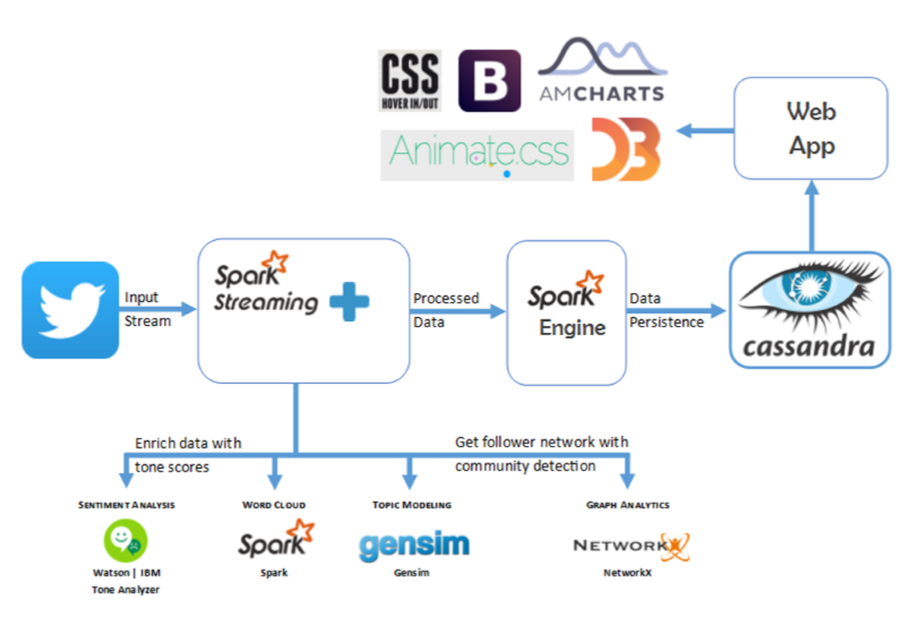
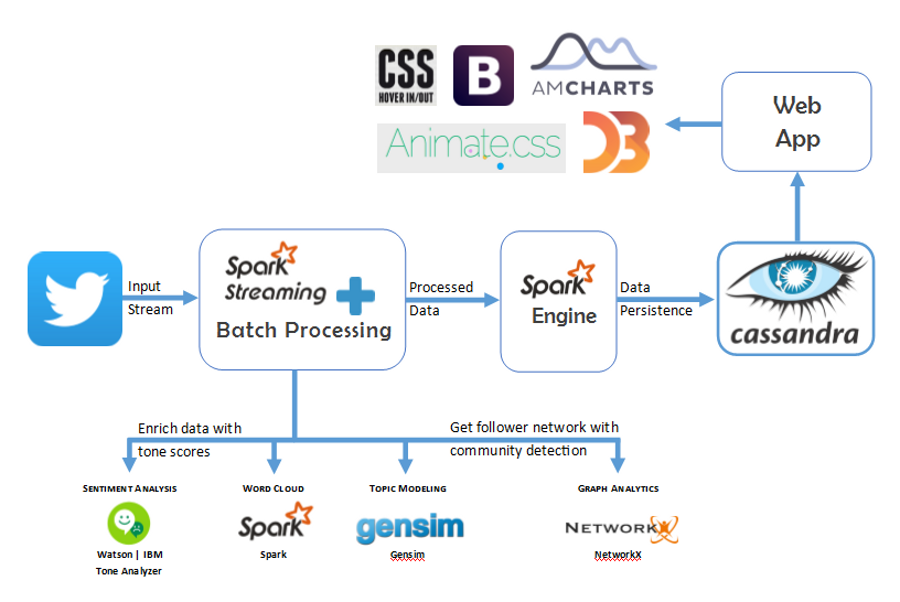
updated some of README -- still in progress; also corrected pipeline which was missing 'batch processing' under Spark streaming

diff --git a/WebApp/flask-app/templates/index.html b/WebApp/flask-app/templates/index.html
@@ -334,7 +334,7 @@
                 <div class="col-lg-4" style="width:500px">
                     <h4 style="font-size:26px;">Data Processing</h4>
                     <ul style="font-size:20px;">
-                        <li>Tweepy API to pull Twitter data (batch processing)</li>
+                        <li>Tweepy API to pull Twitter data (realtime and batch processing)</li>
                         <li>Cassandra to ensure data persistence</li>
                         <li>Spark Streaming to generate realtime data</li>
                         <li>list item 1 Aenean commodo ligula eget dolor.</li>

diff --git a/WebApp/README.md b/WebApp/README.md
@@ -1,26 +1,79 @@
 # [Visit Our App](http://big-neuron.github.io) - [Big Neuron](http://big-neuron.github.io)
 
-[Big Neuron](http://big-neuron.github.io) is an interactive web app that allows the user to visualize big data collected and analyzed from Twitter based on the user's specified keyword.
 
 
-## The Project
+## Big-Neuron
+### Project Objective:
 
-Our big data project collects, processes and analyzes Twitter data to display the number of Tweets about a particular topic/keyword and the sentiment toward said topic/keyword. 
-* highlight 1
-* highlight 2
-* highlight 3
- 
-REPLACE THIS TEXT WITH IMAGE OF PIPELINE.
+[Electionitics](http://electionitics.press) is an interactive web application that allows the user to visualize Twitter Big Data in an easy to understand and appealing manner.  The data visualized is specifically focused on the 2016 presidential race.  Electionitics shows the user what the nation feels about each candidate through Twitter and Tweet-level sentiment analysis, provides visualizations for each candidate's follower network, and Twitter data topic modeling per candidate.
 
-
-## The Team
+### Team Members:
++ Kahini Wadhawan
+* https://www.linkedin.com/in/kahiniwadhawan
++ Tanvi Parikh
+* https://www.linkedin.com/in/tanviparikh91
++ Jessica Lynch
+* https://www.linkedin.com/in/jessicalynchcsci
++ Piyush Patel
+* https://www.linkedin.com/in/piyushpatel90
++ Michael Muehlbradt
 
 Big Neuron was created by and is maintained by **Tanvi Parikh** and **Jessica Lynch** along with their teammates on backend and systems development: **Piyush Sudip Patel**, **Kahini Wadhawan** and **Michael D. Muehlbradt**.
 
-* https://www.linkedin.com/in/tanviparikh91
-* https://www.linkedin.com/in/jessicalynchcsci
-* https://www.linkedin.com/in/kahiniwadhawan
-* https://www.linkedin.com/in/piyushpatel90
+### Course:
+Big Data| Spring 2016 | University of Colorado Boulder | Professor: Gregory Greenstreet
+
+###Project Tools:
++ Data Source: Twitter Streaming Api
++ Analytics tool: IBM Tone Analyzer, Gensim for Topic Modelling, NetworkX for Graph Analytics
++ Web Framework: Flask
++ Database: Mongo DB and Apache Cassandra
++ Cloud Computing Service: AWS
++ Data Processing: Apache Spark with Kafka
+
+
+## Legacy
+##### analytics/  
+> sentimentAnalysis/ 
+
+> topics/
+
+> networkAnalysis/
+
+##### visualizations/  
+> wordcloud/  
+
+> d3-barchart/
+ - simple
+ - interactive legend
+
+> pie-chart
+ - 3D pie with animation
+ - donut chart with interactive legend
+
+> US Map
+
+> D3 Zoomable Pack Layout for Topic Modelling 
+
+> D3 Force directed graph for Follower Network
+
+##### preprocessing/  
+##### spark/  
+##### databases/ 
+> cassandra/
+
+> mongodb/
+
+##### Required Software/Versions
+
+> Cassandra v2.2.5/
+
+> CQLSH v 5.0.1/
+
+> Apache Spark v/
+
+> Mongdb 3.2.3
+
 
 
 
@@ -29,3 +82,4 @@ Big Neuron was created by and is maintained by **Tanvi Parikh** and **Jessica Ly
 Copyright 2016 Big Neuron
 
 Our app uses source code from [Freelancer](http://startbootstrap.com/template-overviews/freelancer/), a one page freelancer portfolio theme for [Bootstrap](http://getbootstrap.com/) created by [Start Bootstrap](http://startbootstrap.com/). Start Bootstrap is based on the [Bootstrap](http://getbootstrap.com/) framework created by [Mark Otto](https://twitter.com/mdo) and [Jacob Thorton](https://twitter.com/fat). Code released under the [Apache 2.0](https://github.com/IronSummitMedia/startbootstrap-freelancer/blob/gh-pages/LICENSE) license.
+
